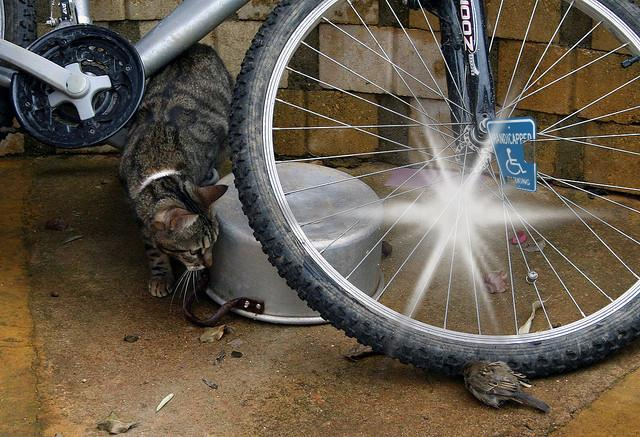
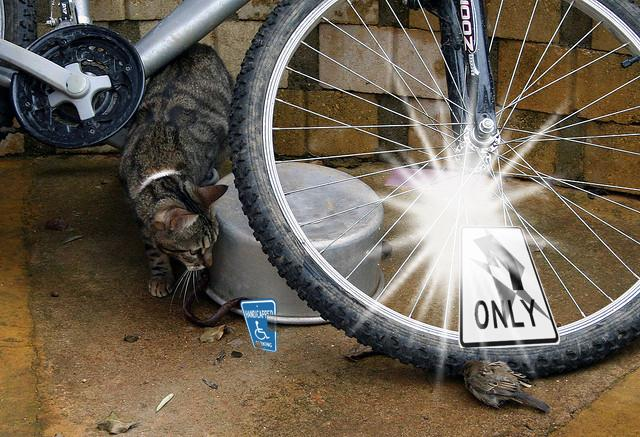
fixed grey edges of glare

Changed region(s): [[0.4062, 0.119, 1.0, 0.8924], [0.375, 0.6842, 0.4375, 0.8032], [0.5312, 0.7437, 0.5625, 0.7735]]

diff --git a/wato_gen/data_generator.py b/wato_gen/data_generator.py
@@ -118,11 +118,12 @@ def process_data(data, output_image, output_label, min_size, min_appearance, gla
 
     glare = enhancer.enhance(glare_factor)
     glare = glare.convert("L")
-
+    
     # Combine the glare and background images
     w_b, h_b = background.size
     glare = glare.resize((w_b, h_b))
-    background.paste(glare, (0, 0), glare) 
+    white = Image.new("RGB", (w_b, h_b), (255, 255, 255))
+    background.paste(white, (0, 0), glare) 
 
   background.save(os.path.join(output_image, os.path.basename(data["image_path"])))
 
